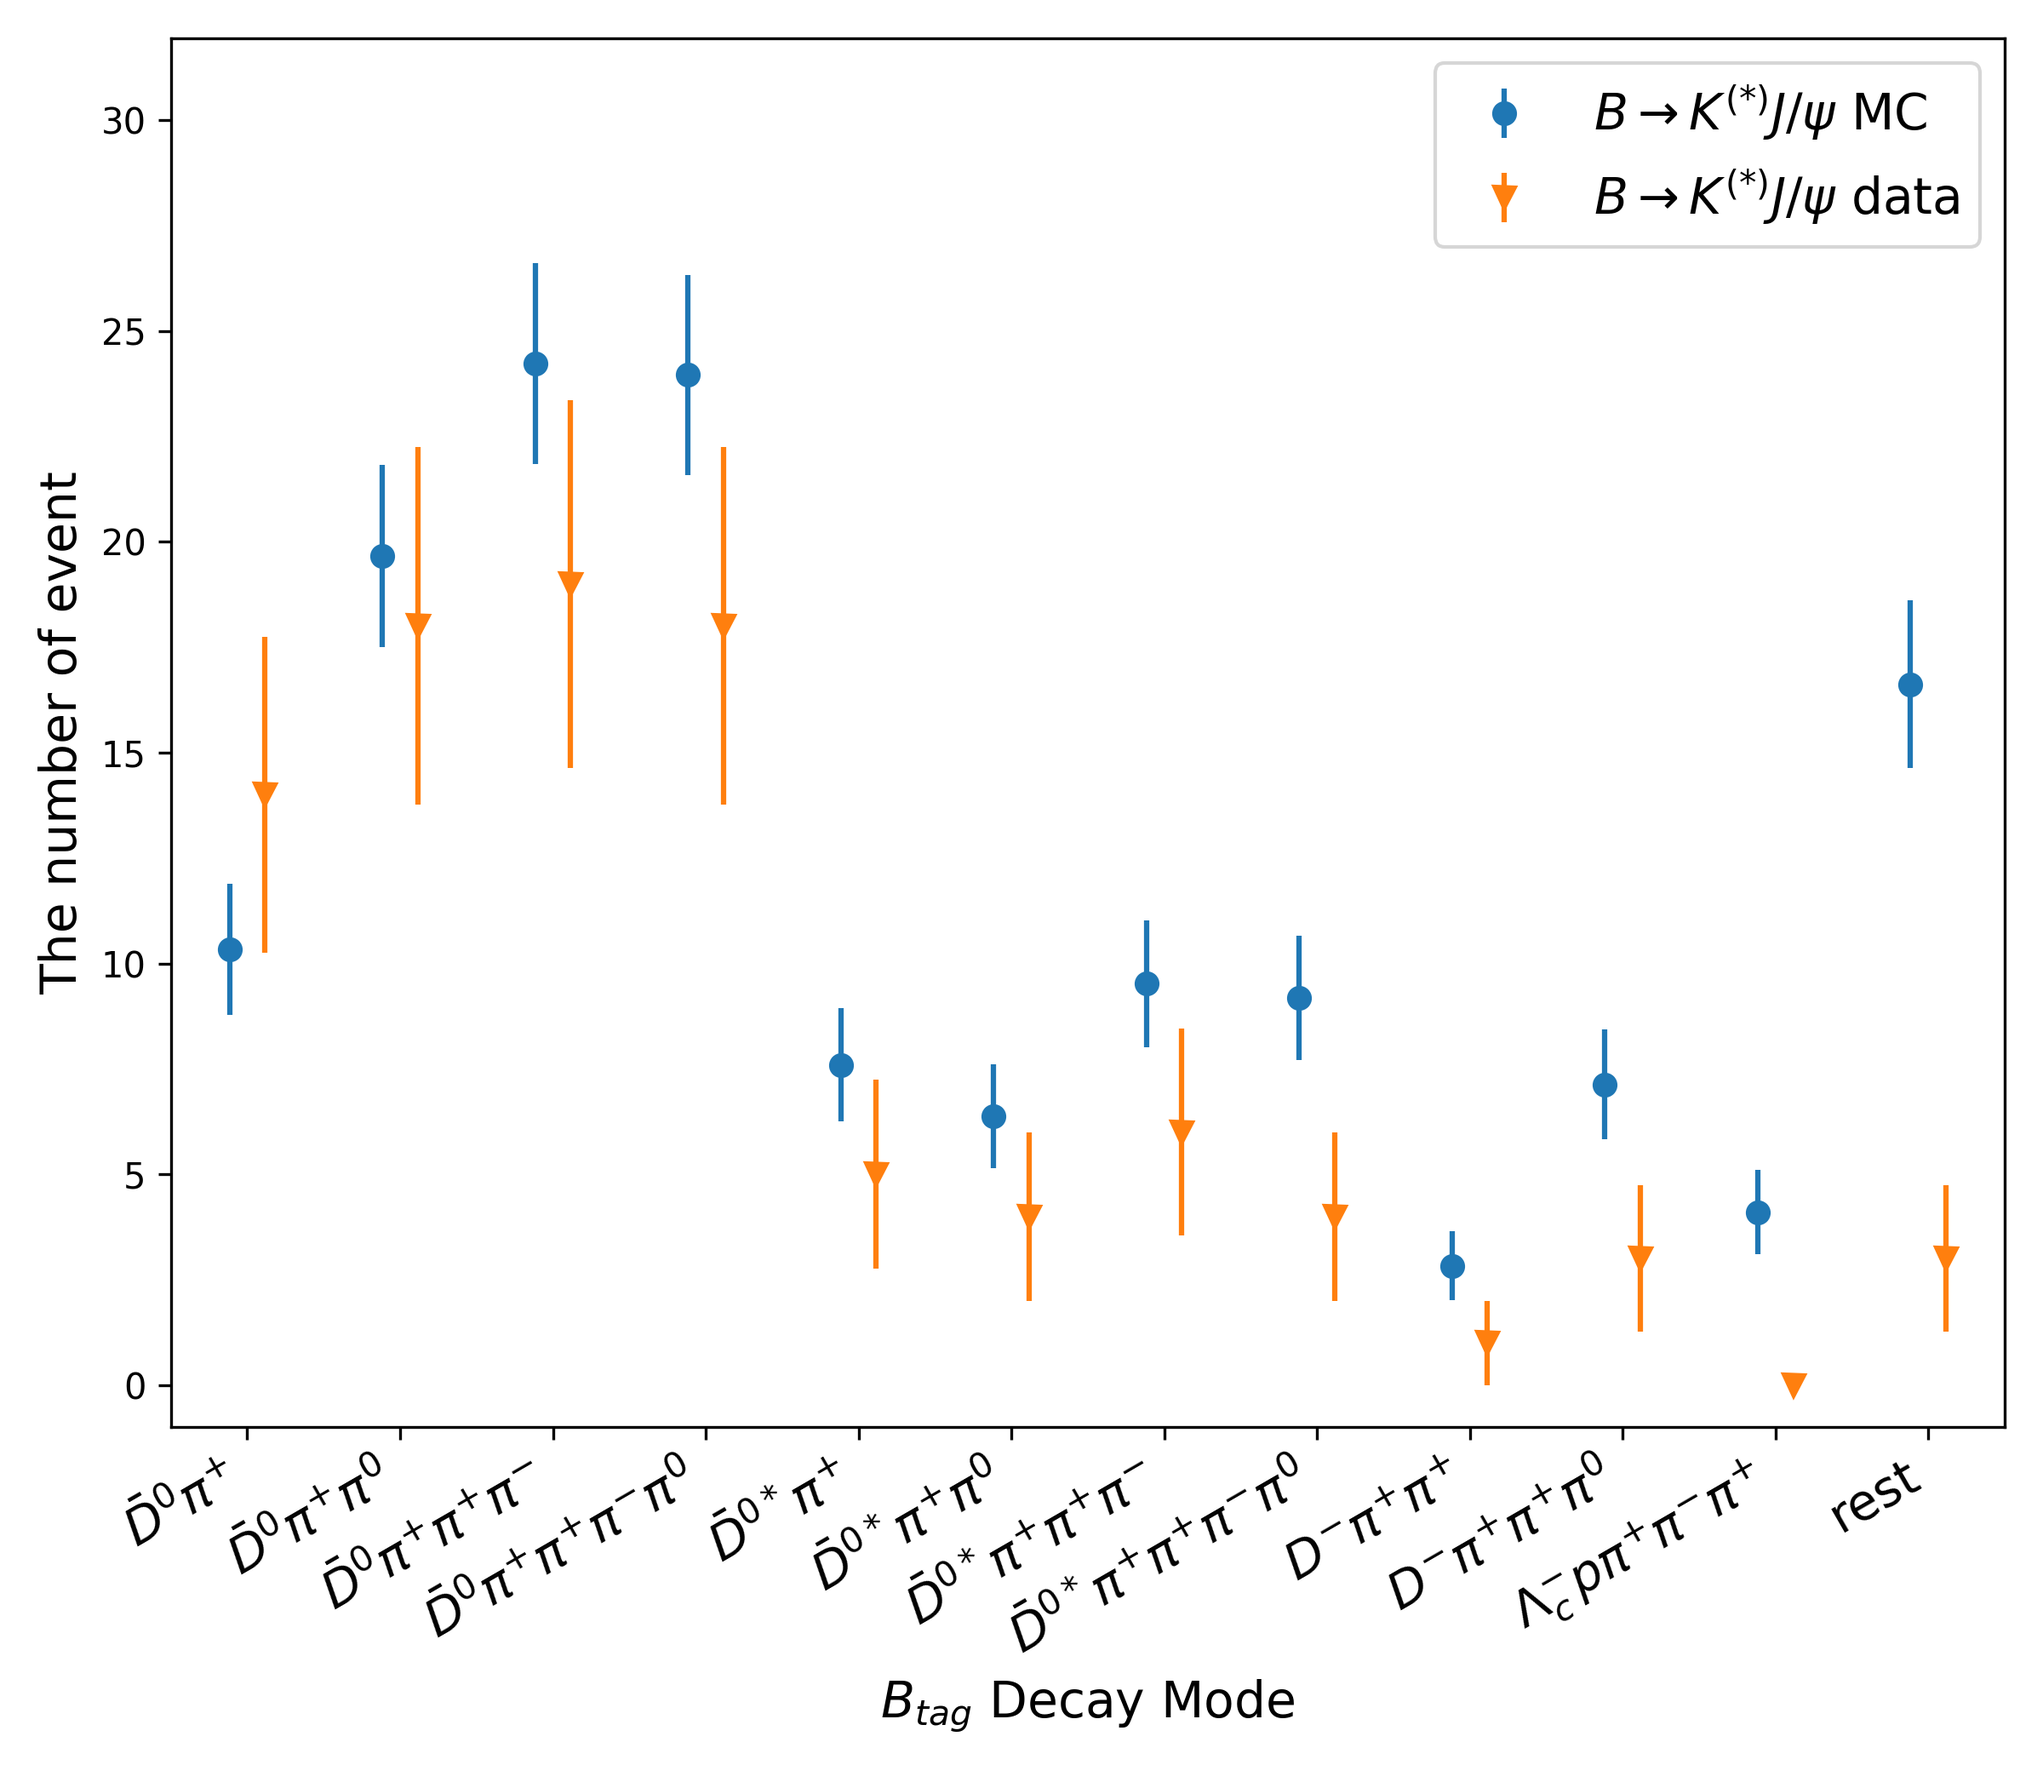
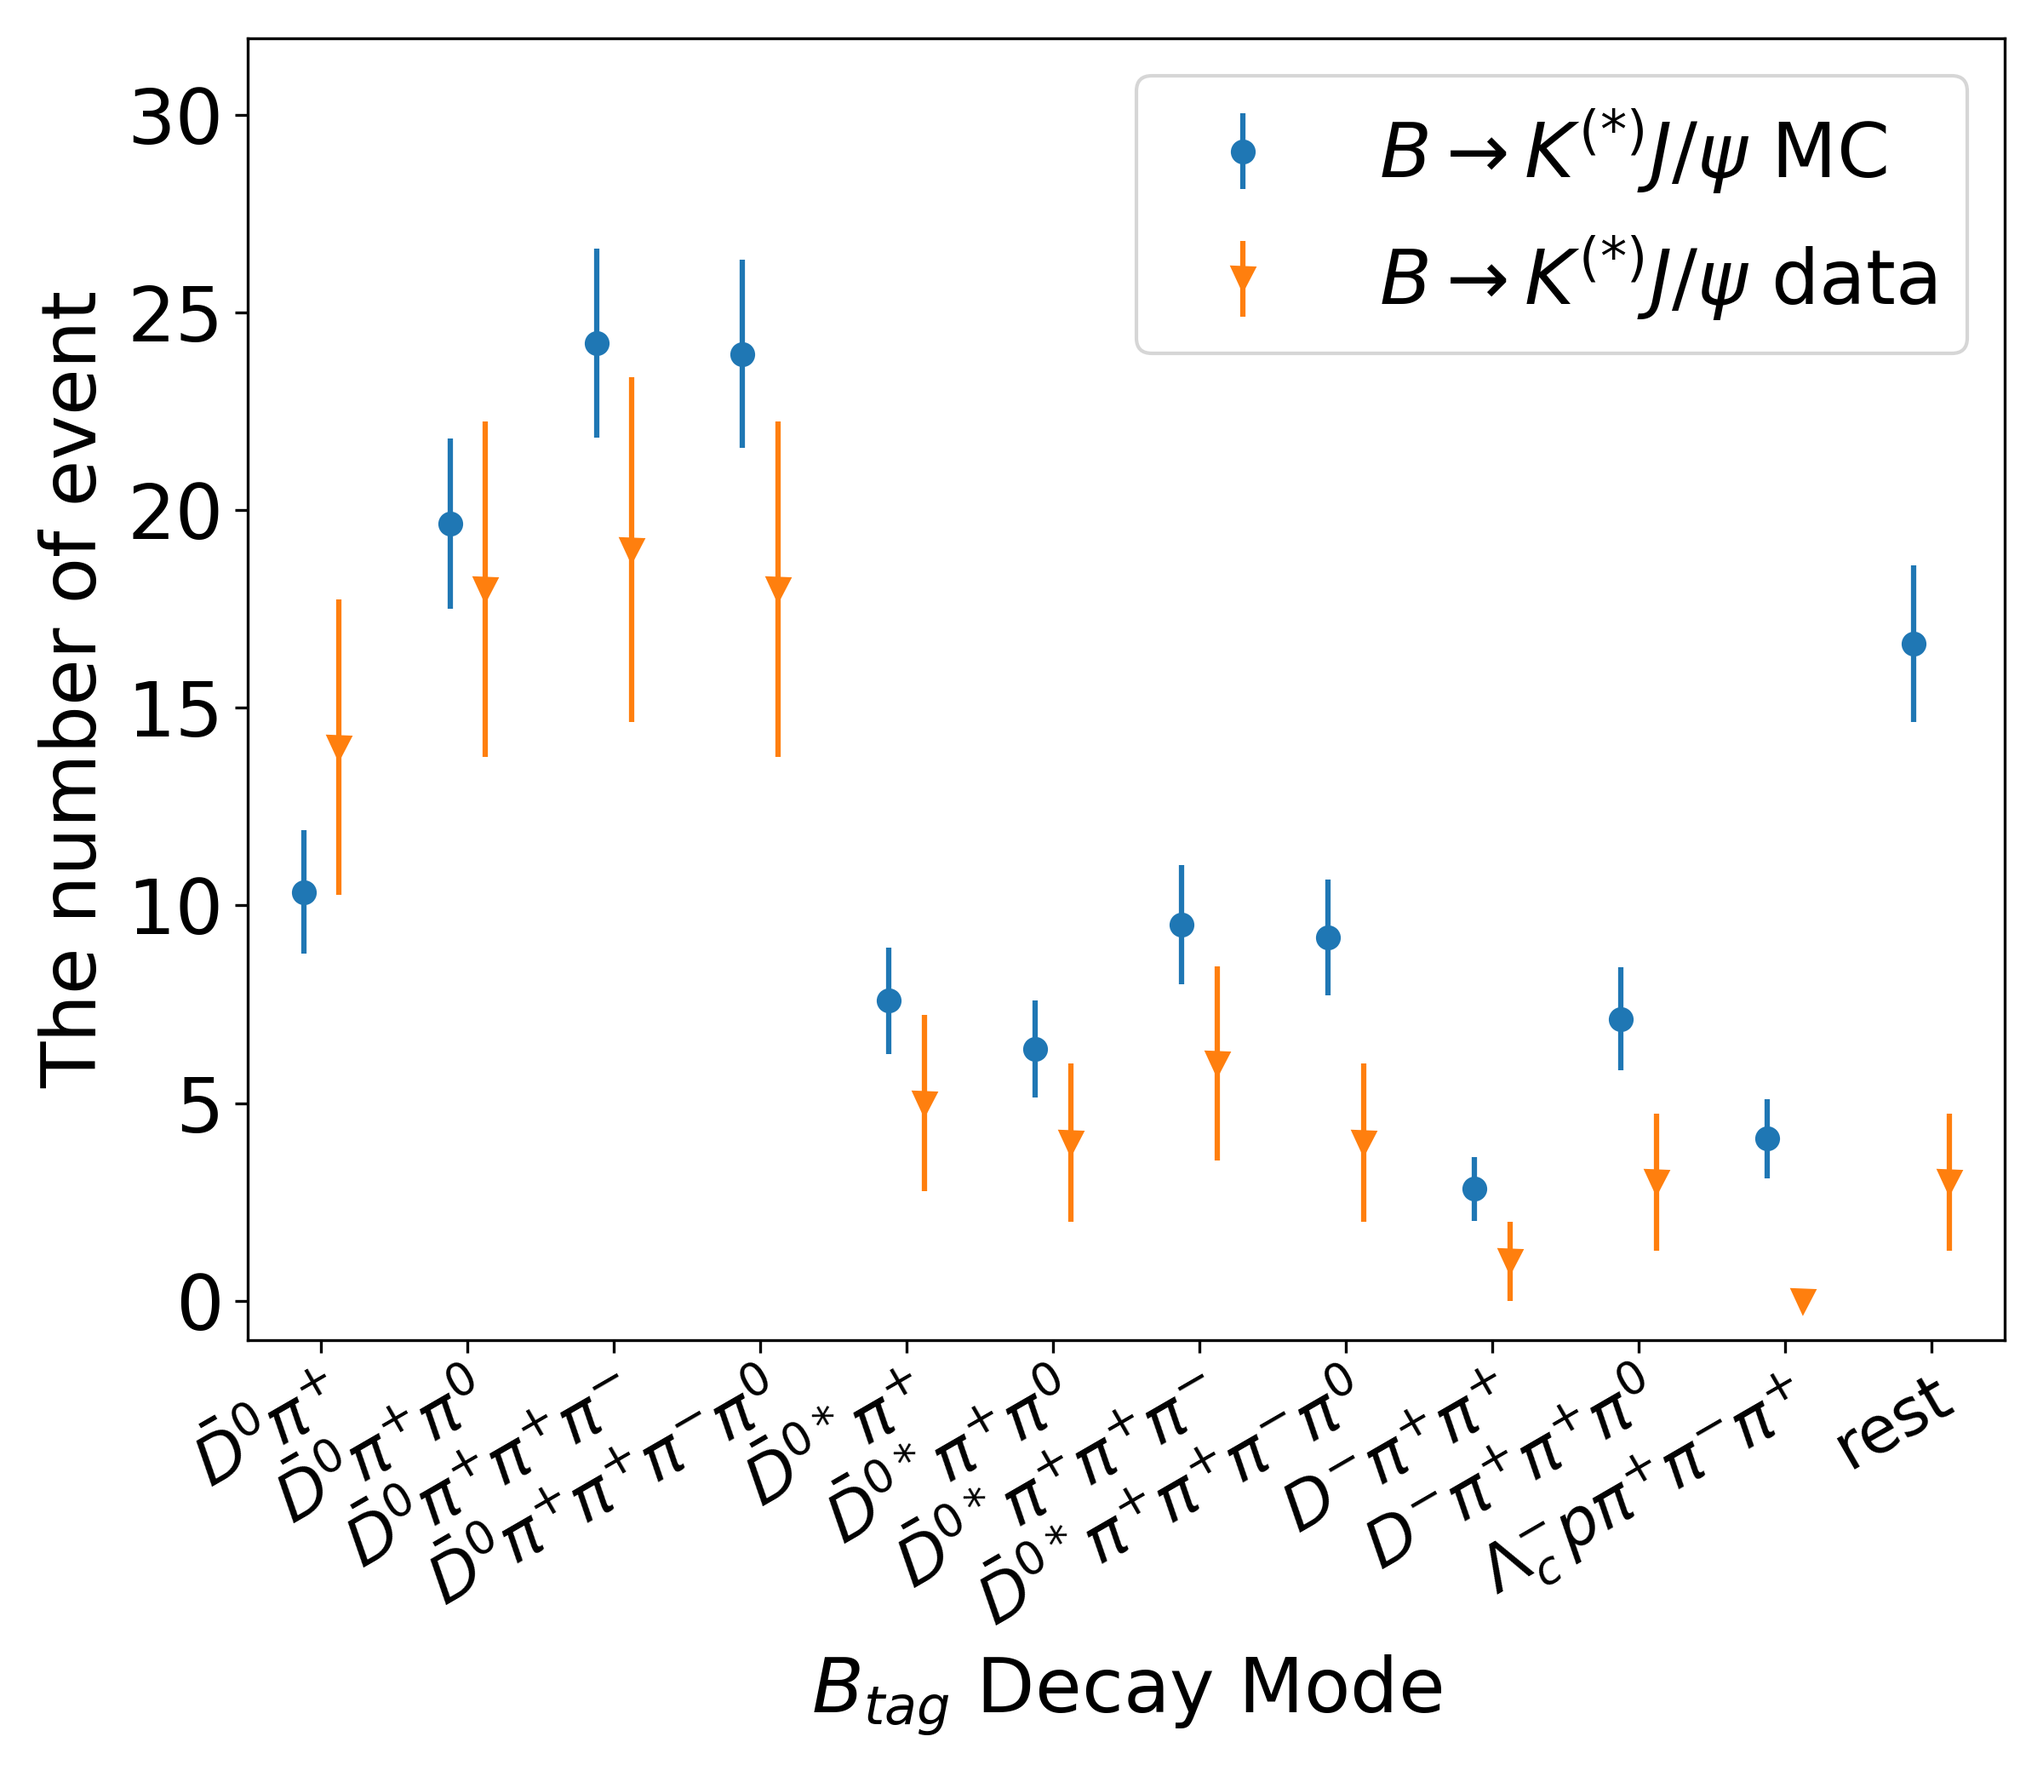
change plot

diff --git a/src/python/Btag_compare.py b/src/python/Btag_compare.py
@@ -2,9 +2,19 @@ import numpy as np
 import matplotlib.pyplot as plt
 from matplotlib.transforms import ScaledTranslation
 
+# Figure 9.6 uses 0.49\textwidth per panel (221.12792 PDF points).
+# Keep the saved canvas width fixed for the final font sizes below.
+FIGURE_WIDTH_IN = 8.0
+FINAL_PANEL_WIDTH_PT = 221.12792
+FINAL_FONT_SIZE_PT = 8.2
+FONT_SIZE = FINAL_FONT_SIZE_PT * FIGURE_WIDTH_IN * 72.0 / FINAL_PANEL_WIDTH_PT
+# Use smaller decay-mode labels to fit a shallower 30-degree rotation.
+FINAL_XTICK_FONT_SIZE_PT = 7.0
+XTICK_FONT_SIZE = FINAL_XTICK_FONT_SIZE_PT * FIGURE_WIDTH_IN * 72.0 / FINAL_PANEL_WIDTH_PT
+
 # Define a function to plot and save a dataset
 def plot_and_save_data(x, y1, yerr1, y2, yerr2, filename, y1_label, y2_label, title):
-    fig, ax = plt.subplots(figsize=(8, 7))
+    fig, ax = plt.subplots(figsize=(FIGURE_WIDTH_IN, 7))
 
     trans1 = ax.transData + ScaledTranslation(-5/72, 0, fig.dpi_scale_trans)
     trans2 = ax.transData + ScaledTranslation(+5/72, 0, fig.dpi_scale_trans)
@@ -17,17 +27,19 @@ def plot_and_save_data(x, y1, yerr1, y2, yerr2, filename, y1_label, y2_label, ti
     ax.set_ylim(-1.0, y_max * 1.2)
     ax.set_xlim(-0.5, len(x) - 0.5)
 
-    # Rotate the x-axis labels by 45 degrees
+    # Keep the decay-mode labels readable at a shallower angle.
     ax.set_xticks(x)
-    ax.set_xticklabels(x, rotation=30, ha='right', fontsize=14)
+    ax.set_xticklabels(x, rotation=30, ha='right', rotation_mode='anchor',
+                       fontsize=XTICK_FONT_SIZE)
+    ax.tick_params(axis='y', labelsize=FONT_SIZE)
 
     # Add a title and labels for the axes
-    ax.set_xlabel(r'$B_{tag}$ Decay Mode', fontsize=14)
-    ax.set_ylabel('The number of event', fontsize=14)
+    ax.set_xlabel(r'$B_{tag}$ Decay Mode', fontsize=FONT_SIZE)
+    ax.set_ylabel('The number of event', fontsize=FONT_SIZE)
 
-    ax.legend(loc='best', fontsize=14)
+    ax.legend(loc='best', fontsize=FONT_SIZE)
 
-    ax.text(0.02, 0.95, title, transform=ax.transAxes, color='black', fontsize=16)
+    ax.text(0.02, 0.95, title, transform=ax.transAxes, color='black', fontsize=FONT_SIZE)
 
     plt.tight_layout()
 
